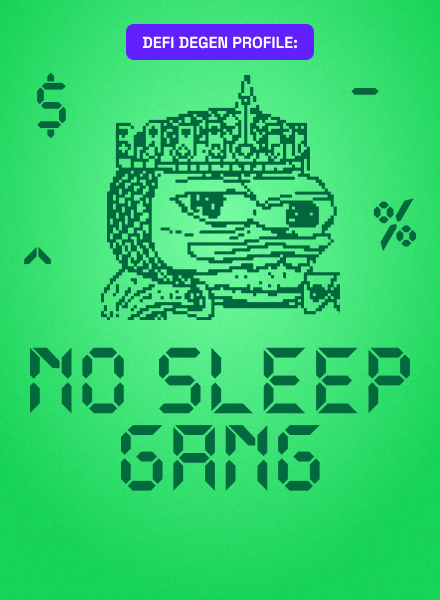
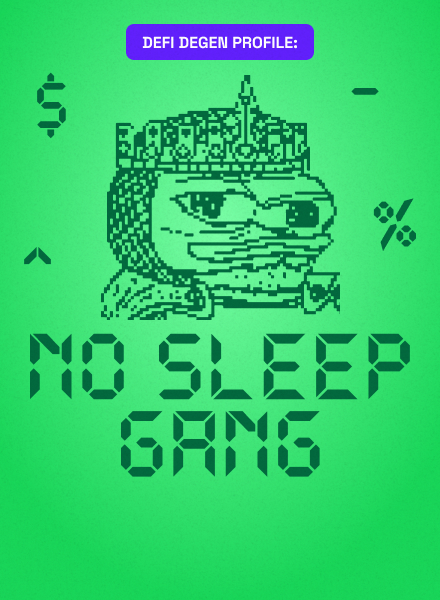
feat: update volume card + various carousel

Changed region(s): [[0.0591, 0.54, 0.9455, 0.84]]

diff --git a/components/cards/stat/Volume.tsx b/components/cards/stat/Volume.tsx
@@ -1,21 +1,71 @@
-import type {HTMLAttributes, ReactElement, ReactNode} from 'react';
+import {type HTMLAttributes, type ReactElement, useMemo} from 'react';
 
 import {cl} from '@/components/utils/tools';
 
 export type TVolumeCardProps = {
-	children: ReactNode;
-	variant: 'Green' | 'Purple';
+	volume: number;
 } & HTMLAttributes<HTMLDivElement>;
+
+const padsConfig = [
+	{
+		gradientClasses: 'from-[#FAA322] to-[#FEED23]',
+		textClasses: 'text-[72px] font-bold leading-[72px]'
+	},
+	{
+		gradientClasses: 'from-[#DF1006] to-[#FE764D]',
+		textClasses: 'text-white text-[72px] font-bold leading-[72px]'
+	},
+	{
+		gradientClasses: 'from-[#12522D] to-[#19A256]',
+		textClasses: 'text-[#FFE55C] text-[72px] font-bold leading-[72px]'
+	},
+	{
+		gradientClasses: 'from-[#162EE8] to-[#3D94FB]',
+		textClasses: 'text-[#7EF6E8] text-[72px] font-bold leading-[72px]'
+	}
+];
+
+function VolumePads({value}: {value: string}): ReactElement {
+	return (
+		<div>
+			{padsConfig.map(({gradientClasses, textClasses}, index) => (
+				<div
+					key={index}
+					className={cl(
+						'rounded-2xl min-w-[296px] flex justify-center border px-8 py-2 border-[#FDDE2C] bg-gradient-to-r',
+						gradientClasses,
+						'[box-shadow:0px_8px_0px_0px_#FBB42D]'
+					)}>
+					<p className={textClasses}>{value}</p>
+				</div>
+			))}
+		</div>
+	);
+}
+
 export default function VolumeCard(props: TVolumeCardProps): ReactElement {
+	const raitingPercentage = 5;
+	const formattedVolume = useMemo(() => {
+		if (props.volume >= 100_000 && props.volume < 1_000_000) {
+			return `$${Math.floor(props.volume / 1_000)}k`;
+		}
+		if (props.volume >= 1_000_000) {
+			return `$${(props.volume / 1_000_000).toFixed(1)}M`;
+		}
+		return `$${props.volume.toLocaleString()}`;
+	}, [props.volume]);
+
 	return (
 		<div className={cl('relative flex aspect-[440/600] rounded-[32px] overflow-hidden w-[440px]', props.className)}>
 			<div className={'relative z-50 flex size-full flex-col items-center p-6'}>
 				<div className={'flex flex-col gap-2 pb-6 pt-2 text-center text-black'}>
 					<b className={'font-space-grotesk text-[40px] font-bold uppercase leading-[40px]'}>{'Ur volume'}</b>
-					<p className={'font-space-grotesk text-2xl font-medium'}>{'Putting you in the top 100%'}</p>
+					<p className={'font-space-grotesk text-2xl font-medium'}>
+						{`Putting you in the top ${raitingPercentage}%`}
+					</p>
 				</div>
 
-				{props.children}
+				<VolumePads value={formattedVolume} />
 
 				<div className={'mt-auto flex items-center justify-center pt-6 text-center'}>
 					<p className={'font-space-grotesk w-3/4 text-2xl font-medium text-black'}>
@@ -25,7 +75,11 @@ export default function VolumeCard(props: TVolumeCardProps): ReactElement {
 			</div>
 			<div
 				className={'absolute inset-0 z-10 bg-cover bg-no-repeat'}
-				style={{backgroundImage: `url(/cards/stat/backgroundVolume${props.variant}.jpg)`}}
+				style={{
+					backgroundImage: `url(/cards/stat/backgroundVolume${
+						props.volume < 1_000_000 ? 'Green' : 'Purple'
+					}.jpg)`
+				}}
 			/>
 		</div>
 	);

diff --git a/components/Carousel.tsx b/components/Carousel.tsx
@@ -2,7 +2,6 @@ import {type ReactElement, useCallback} from 'react';
 
 import {CarouselContent, CarouselItem, CarouselNext, CarouselPrevious} from './carouselContext';
 import NoSleepCard from './cards/share/NoSleep';
-import DayCard from './cards/stat/Day';
 import {Button} from './common/Button';
 
 const domain = 'https://jumper-wrap.builtby.dad';
@@ -11,7 +10,7 @@ export function Carousel({
 	cards,
 	profile
 }: {
-	cards: {title: string; description: string}[];
+	cards: {title: string; component: ReactElement}[];
 	profile?: string;
 }): ReactElement {
 	const clickToTweet = useCallback(async () => {
@@ -25,22 +24,30 @@ export function Carousel({
 		<div className={'relative'}>
 			<div className={'relative w-screen'}>
 				<CarouselContent className={'-ml-2 md:-ml-4'}>
-					{cards.map((_, index) => (
+					{[
+						...cards,
+						{
+							title: 'Card 5',
+							component: (
+								<NoSleepCard
+									width={440}
+									timestamp={'121121212'}
+								/>
+							)
+						}
+					].map((_, index) => (
 						<CarouselItem
 							key={index}
 							className={'h-[655px] w-[440px] xl:h-[1200px] xl:w-[660px]'}>
-							{index < cards.length - 1 ? (
-								<DayCard
-									month={'May'}
-									day={'10'}
-								/>
+							{index < cards.length ? (
+								<>{cards[index].component}</>
 							) : (
 								<div className={'relative'}>
 									<NoSleepCard
 										width={440}
 										timestamp={'1312312'}
 									/>
-									<div className={'absolute -bottom-6 left-1/2 -translate-x-1/2'}>
+									<div className={'absolute -bottom-6 left-1/2 z-50 -translate-x-1/2'}>
 										<Button
 											onClick={clickToTweet}
 											title={'Share on X'}

diff --git a/components/Home.tsx b/components/Home.tsx
@@ -11,16 +11,32 @@ import {JumperPopup} from './JumperPopup';
 import {NextYearButton} from './NextYearButton';
 import {WalletSelector} from './WalletSelector';
 import {WrappedButton} from './WrappedButton';
+import DayCard from './cards/stat/Day';
+import {MonthCard} from './cards/stat/Month';
+import TimeCard from './cards/stat/Time';
+import VolumeCard from './cards/stat/Volume';
 import {Header} from './common/Header';
 import {cl} from './utils/tools';
 
 const cards = [
-	{title: 'Card 1', description: 'kek'},
-	{title: 'Card 2', description: 'kek'},
-	{title: 'Card 3', description: 'kek'},
-	{title: 'Card 4', description: 'kek'},
-	{title: 'Card 5', description: 'kek'},
-	{title: 'Card 6', description: 'kek'}
+	{title: 'Card 1', component: <VolumeCard volume={34233} />},
+	{
+		title: 'Card 2',
+		component: (
+			<DayCard
+				day={'12'}
+				month={'December'}
+			/>
+		)
+	},
+	{
+		title: 'Card 3',
+		component: <TimeCard timestamp={'13312312'} />
+	},
+	{
+		title: 'Card 4',
+		component: <MonthCard month={'March'} />
+	}
 ];
 
 const wiggleAnimation = {
@@ -69,6 +85,7 @@ export function HomePage(): ReactElement {
 				<Header
 					set_isWalletSelectorOpen={set_isWalletSelectorOpen}
 					isCarouselView={view === 'carousel'}
+					cardsAmount={cards.length + 1}
 				/>
 				<PageBackgound position={view === 'greetings' ? 'center' : 'bottom-right'} />
 

diff --git a/components/cards/stat/Month.tsx b/components/cards/stat/Month.tsx
@@ -48,9 +48,10 @@ export function MonthCard(props: TMonthCardProps): ReactElement {
 					</p>
 				</div>
 
-				<div className={'absolute bottom-[71px] left-1/2 w-[380px] -translate-x-1/2 text-center'}>
+				<div className={'absolute bottom-[24px] left-1/2 w-[392px] -translate-x-1/2 text-center'}>
 					<p className={'text-2xl font-bold leading-[40px] text-white'}>
-						{"was your crypto marathon. Who needs sleep when you're chasing gains?"}
+						<span className={'uppercase'}>{props.month}</span>
+						{" was your crypto marathon. Who needs sleep when you're chasing gains?"}
 					</p>
 				</div>
 			</div>

diff --git a/components/common/Header.tsx b/components/common/Header.tsx
@@ -13,10 +13,12 @@ import {IconJumperSmall} from '../icons/IconJumperSmall';
 
 export function Header({
 	set_isWalletSelectorOpen,
-	isCarouselView
+	isCarouselView,
+	cardsAmount
 }: {
 	set_isWalletSelectorOpen: (value: boolean) => void;
 	isCarouselView?: boolean;
+	cardsAmount?: number;
 }): ReactElement {
 	const account = useWallet();
 	const {isConnected} = useAccount();
@@ -40,7 +42,7 @@ export function Header({
 			{router.pathname !== '/404' && isCarouselView && (
 				<CarouselDots
 					className={'!static'}
-					arrayLength={6}
+					arrayLength={cardsAmount}
 				/>
 			)}
 

diff --git a/components/cards/share/NoSleep.tsx b/components/cards/share/NoSleep.tsx
@@ -25,7 +25,7 @@ export default function NoSleepCard(props: TNoSleepCardProps): ReactElement {
 	return (
 		<Card {...props}>
 			<div className={'relative z-50 flex size-full'}>
-				<div className={'absolute top-[507px] px-6'}>
+				<div className={'absolute bottom-[48px] px-6'}>
 					<p className={'font-space-grotesk text-center text-xl font-medium text-[#02693E]'}>
 						{`Trading at ${time} ${amOrPm} while normies catch Z's. NGMI? Not you!`}
 					</p>
